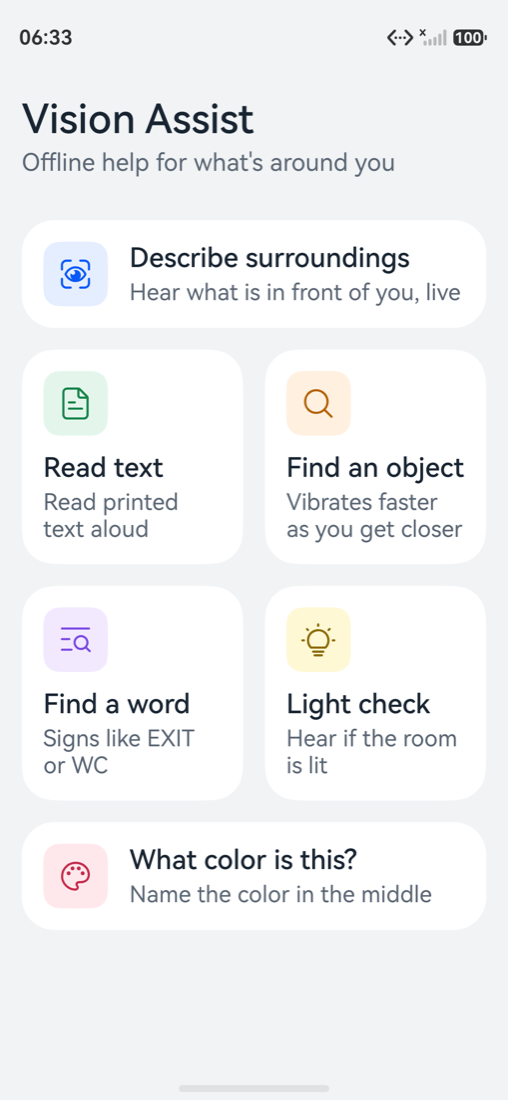
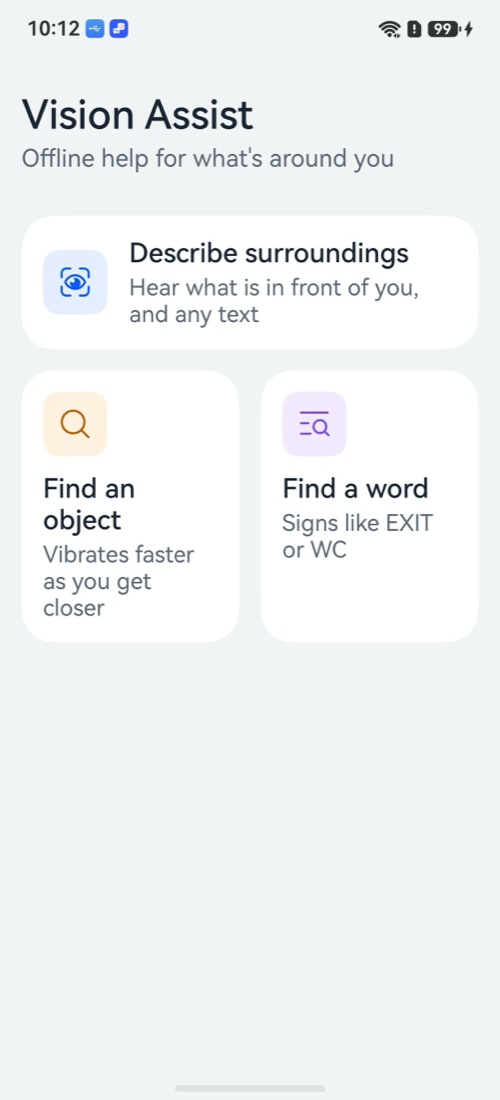
Link the demo video and refresh the screenshots and feature status in the README

diff --git a/README.md b/README.md
@@ -1,6 +1,8 @@
 # Vision Assist
 
-An offline assistive feature for blind and low-vision users on HarmonyOS. Point the phone, and it tells you what is in front of you, with boxes drawn on the live camera view. All recognition runs on the device: no cloud, no account, no camera frame leaves the phone.
+**Demo video:** [youtu.be/c6YDpCh5tAw](https://youtu.be/c6YDpCh5tAw)
+
+An offline assistive feature for blind and low-vision users on HarmonyOS. Point the phone, and it tells you what is in front of you, with boxes drawn on the live camera view. Recognition runs on the device by default. Find an object can also use SAM 3 in the cloud when the phone is online, to find anything you type or dictate (keys included); offline it falls back to the on-device model by itself.
 
 Built for the HackYeah 2026 Huawei challenge "Imagine What's Next" (Human-Centric Technology, Intelligent Experiences).
 
@@ -11,13 +13,13 @@ Built for the HackYeah 2026 Huawei challenge "Imagine What's Next" (Human-Centri
 | Live describe (camera, on-device detection, boxes, spoken summary) | Working on the emulator |
 | Screen reader support | Heading-first focus order, polite announcements, modal pickers; checked through the accessibility tree, see [Accessibility](#accessibility) |
 | Front and back camera | Switch button on every feature screen; boxes land on the objects with both emulator cameras |
-| Find an object with "warmer / colder" vibration | Implemented, runs on the emulator; vibration not verified (the emulator vibrator reports "Device operation failed") |
+| Find an object with "warmer / colder" vibration | Working on a Kirin 9000S phone. Pick from the list or type/dictate any object. Online: SAM 3 cloud search (Roboflow, needs `rawfile/sam3.json`); offline or when the cloud fails: the on-device model. A chip shows the active engine |
 | Read printed text | Merged into Describe surroundings: short text is said in the description, longer text is read aloud in chunks after it; the main button becomes Stop reading while it plays; on-device OCR fallback when Core Vision OCR is missing |
 | Find a word (typed or preset, spoken and haptic guidance) | Implemented; picker, typing and the OCR loop verified on the emulator, guidance on real printed text and vibration not verified |
 | Full text screen (Show full text in Describe) | Large, scrollable, selectable text, one screen reader stop per line, Read again |
 | Photo from the gallery (Describe) | System photo picker, no storage permission; the photo is decoded at most 2048 px on the long side |
-| Light check | Ambient light sensor, falling back to camera brightness when the sensor reads 0 lux in a bright scene (the emulator sensor always reports 0); verified on the emulator through the camera fallback |
-| Color check | Names the color in the middle of the frame with white-balance correction from the rest of the frame (for example "blue", "probably beige", "mixed colours"); unit tested, not verified on a real phone |
+| Light check | Part of Describe surroundings (no separate tile). Ambient light sensor, falling back to camera brightness when the sensor reads 0 lux in a bright scene (the emulator sensor always reports 0); verified on the emulator through the camera fallback |
+| Color check | Not in the menu right now (code kept). Names the color in the middle of the frame with white-balance correction from the rest of the frame (for example "blue", "probably beige", "mixed colours"); unit tested, not verified on a real phone |
 
 ## Screens
 
@@ -31,7 +33,7 @@ The app opens on a list of features without starting the camera. Each feature ha
 |---|---|
 | ![Find a word picker](docs/screenshots/picker-find-a-word.png) | ![Find an object picker](docs/screenshots/picker-find-an-object.png) |
 
-Known limits: the detector knows 194 everyday classes. It is weak on small items such as keys and has no wallet class. See `tools/model/README.md`.
+Known limits: the on-device detector knows 194 everyday classes. It has no key or wallet class, so those need the cloud search. See `tools/model/README.md`.
 
 ## How it works
 
@@ -175,7 +177,7 @@ The debug-only `frames` product feeds still images or image sequences from the M
 
 ## Model
 
-`entry/src/main/resources/rawfile/yolov8s_oiv7_416_sub.ms` is committed so the app builds without any model tooling. To rebuild it, follow `tools/model/README.md`.
+`entry/src/main/resources/rawfile/yolov8s_oiv7_640_sub.ms` is committed so the app builds without any model tooling. To rebuild it, follow `tools/model/README.md`.
 
 ## License
 
